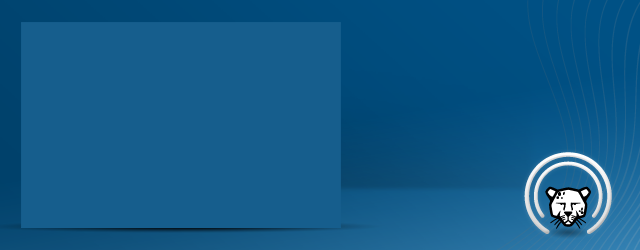
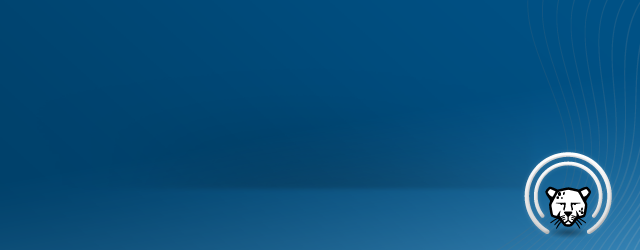
bg fix

Changed region(s): [[0.0312, 0.084, 0.5312, 0.924]]

diff --git a/templates/podcast/main.html b/templates/podcast/main.html
@@ -8,7 +8,7 @@
 {% endblock %}
 {% block content %}
     {% with episode_list.0 as episode %}
-    <div class="news_container" style="background-image:url('/media/podcast/bg.png')">
+    <div class="news_container" style="background-image:url('/media/podcasts/bg.png')">
         <div class="column">
             <div class="left_column">
                 <img src="{{ episode.image.file.url }}" alt="{{ episode.title }}" />
